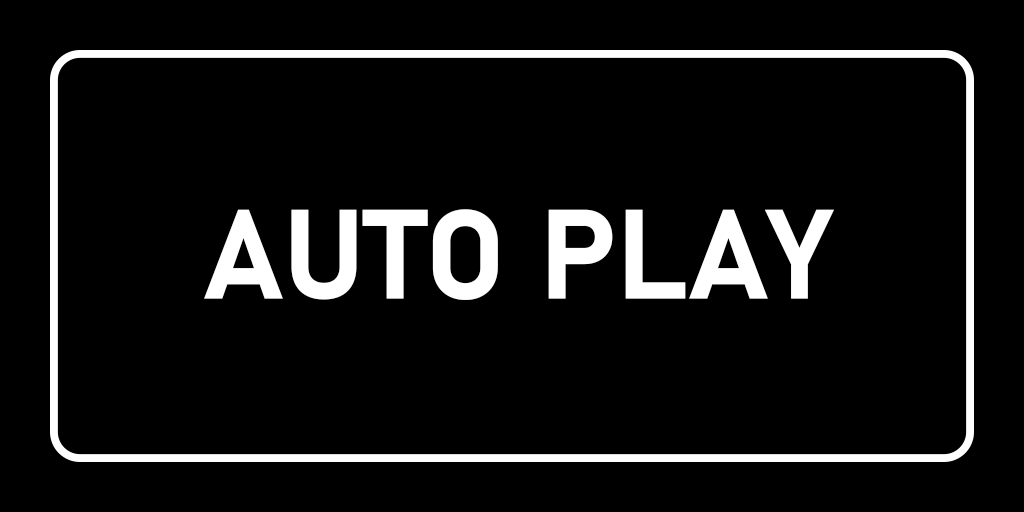
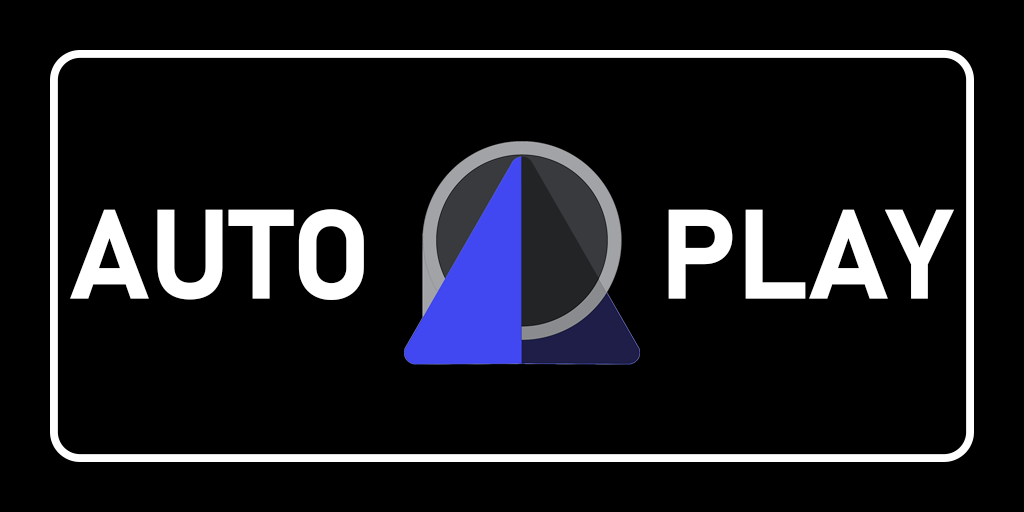
main

Changed region(s): [[0.0625, 0.25, 0.9375, 0.7188]]

diff --git a/original/auto_play_dash/navi/navi_screen.html b/original/auto_play_dash/navi/navi_screen.html
@@ -52,22 +52,51 @@ body {
 }
 
 #bootscreen {
-  max-width: 512px;
+  max-width: 512;
   max-height: 512px;
-  transform: scale(2, 1) translate(64px, -64px);
+  transform: scale(4, 2) translate(96px, -96px);
   background-image: url('auto_play_screen.png');
-  /* background-image: url('cherrier_bootscreen.png'); */
+}
+
+.arrow {
+  fill: green;
+  border-radius: 50%;
+  background-color: green;
+  width: 14px;
+  height: 14px;
+  position: fixed;
+  left: 50%;
+  color: white;
+  margin: 2% 2%;
+  padding: 0% 2%;
+  display:inline-block;
+  transform: scale(0.5, 1) translate(-28px, -200px);
+}
+.arrow > div{
+  display:inline-block;
+  margin: 2px 0px;
+}
+.arrow > div > div{
+  display:inline-block;
+}
+
+#_arrow {
+  bottom: 0px;
+}
+#_arrow > div{
+  margin-top: 1px;
 }
 
 .gpsBar {
   background-color: rgba(16, 16, 16, 0.9);
-  width: calc(100% - 7%);
+  width: calc(100% - 20%);
   height: 28px;
   position: fixed;
   color: white;
   margin: 2% 2%;
   padding: 0% 2%;
-  display:inline-block
+  display:inline-block;
+  transform: scale(1, 0.65) translate(70px, -200px);
 }
 .gpsBar > div{
   display:inline-block;
@@ -131,6 +160,8 @@ body {
           <span class="material-icons">zoom_out</span>
         </div>
       </div>
+      <div id="_arrow" class="arrow">
+      </div>
     </div>
     <!-- map container -->
     <div id="overflow-wrap" style=" width: 100%; height: 100%; overflow: hidden">
@@ -139,7 +170,7 @@ body {
       </div>
     </div>
   </div>
-  <div style="position: absolute; top: calc(160px - 16px ); left: 240px; transform: rotateX(50deg)">
+  <!-- <div style="position: absolute; top: calc(160px - 16px ); left: 240px; transform: rotateX(50deg)"></div>
     <svg xmlns="http://www.w3.org/2000/svg" xmlns:xlink="http://www.w3.org/1999/xlink" width="32" height="32" viewBox="0 0 33.867 33.867" id="svg8">
       <g id="layer1" transform="translate(0 -263.133)">
         <g id="vehicleMarker" transform="matrix(4.53704 0 0 4.53704 -7.075 -1044.026)" stroke-width=".265">
@@ -148,7 +179,7 @@ body {
         </g>
       </g>
     </svg>
-  </div>
+  </div> -->
 </body>
 
 <script type="module">
@@ -159,9 +190,9 @@ body {
     clock: "#clockTxt",
     backgroundRgb: [85, 85, 85],
     roadColors: ["#D8D8D8FF", "#969678FF", "#967864FF"],
-    scale: 0.75,
-    offsetX: 256,
-    offsetY: 160,
+    scale: 1.75,
+    offsetX: 546, // 256
+    offsetY: 280, // 160
     pitch: 65,
     speedPitch: 3,
     hideBootscreen: true,
